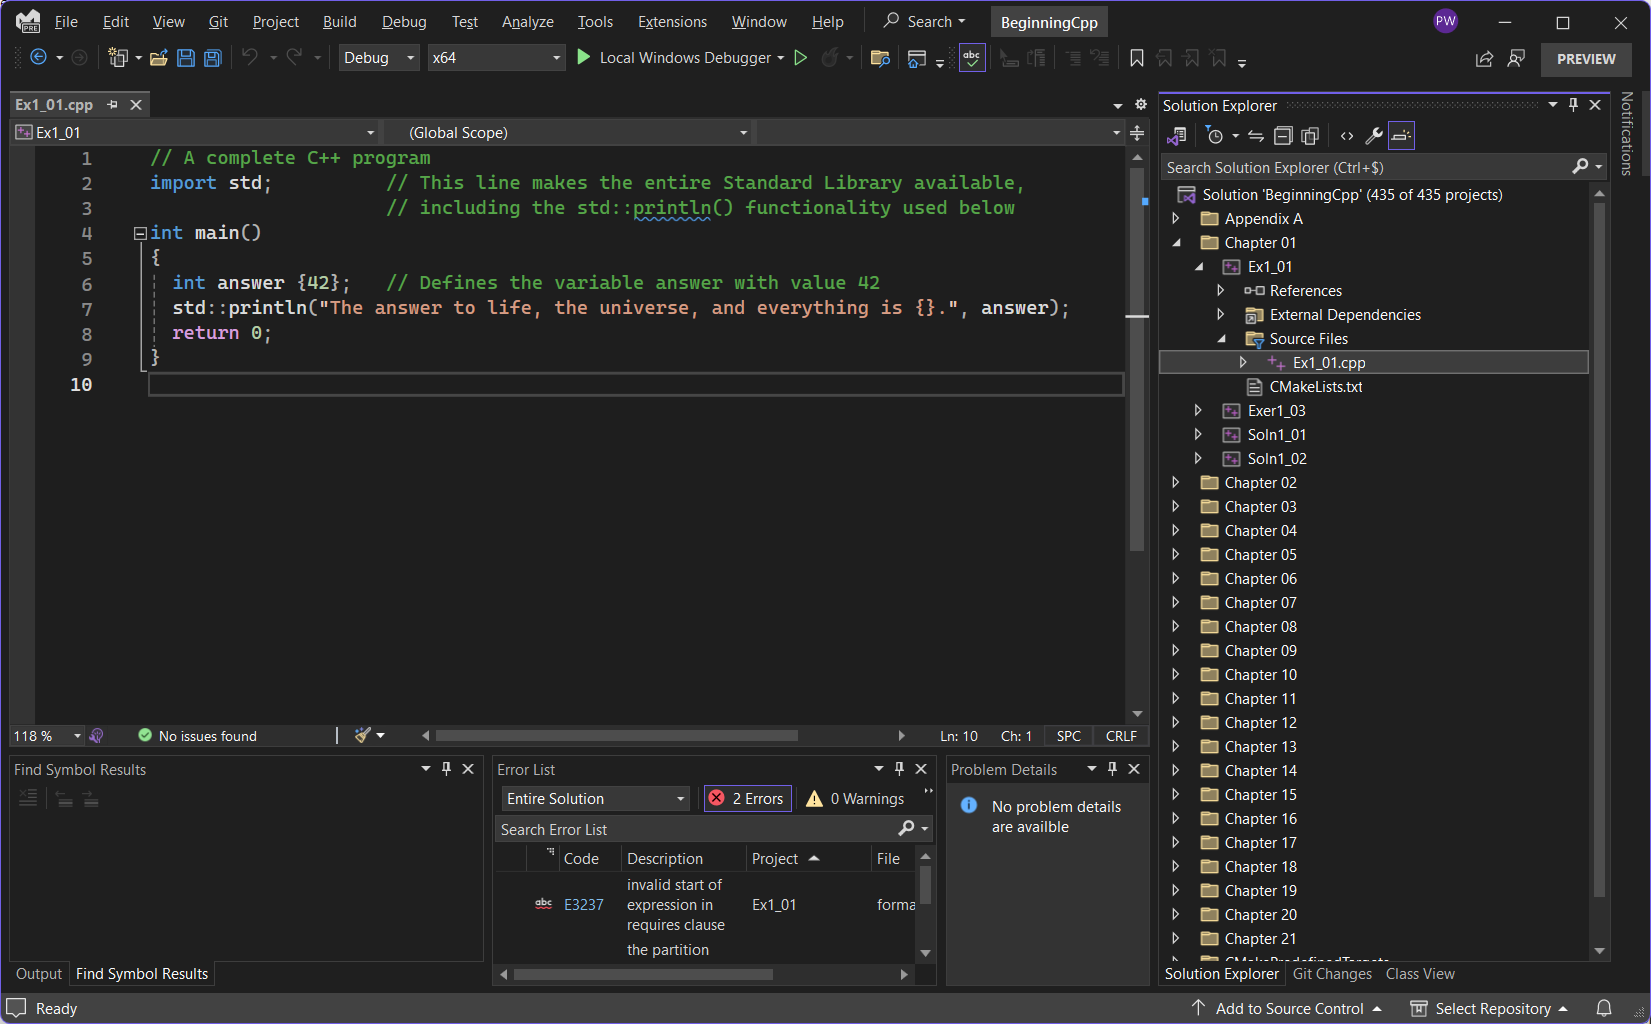
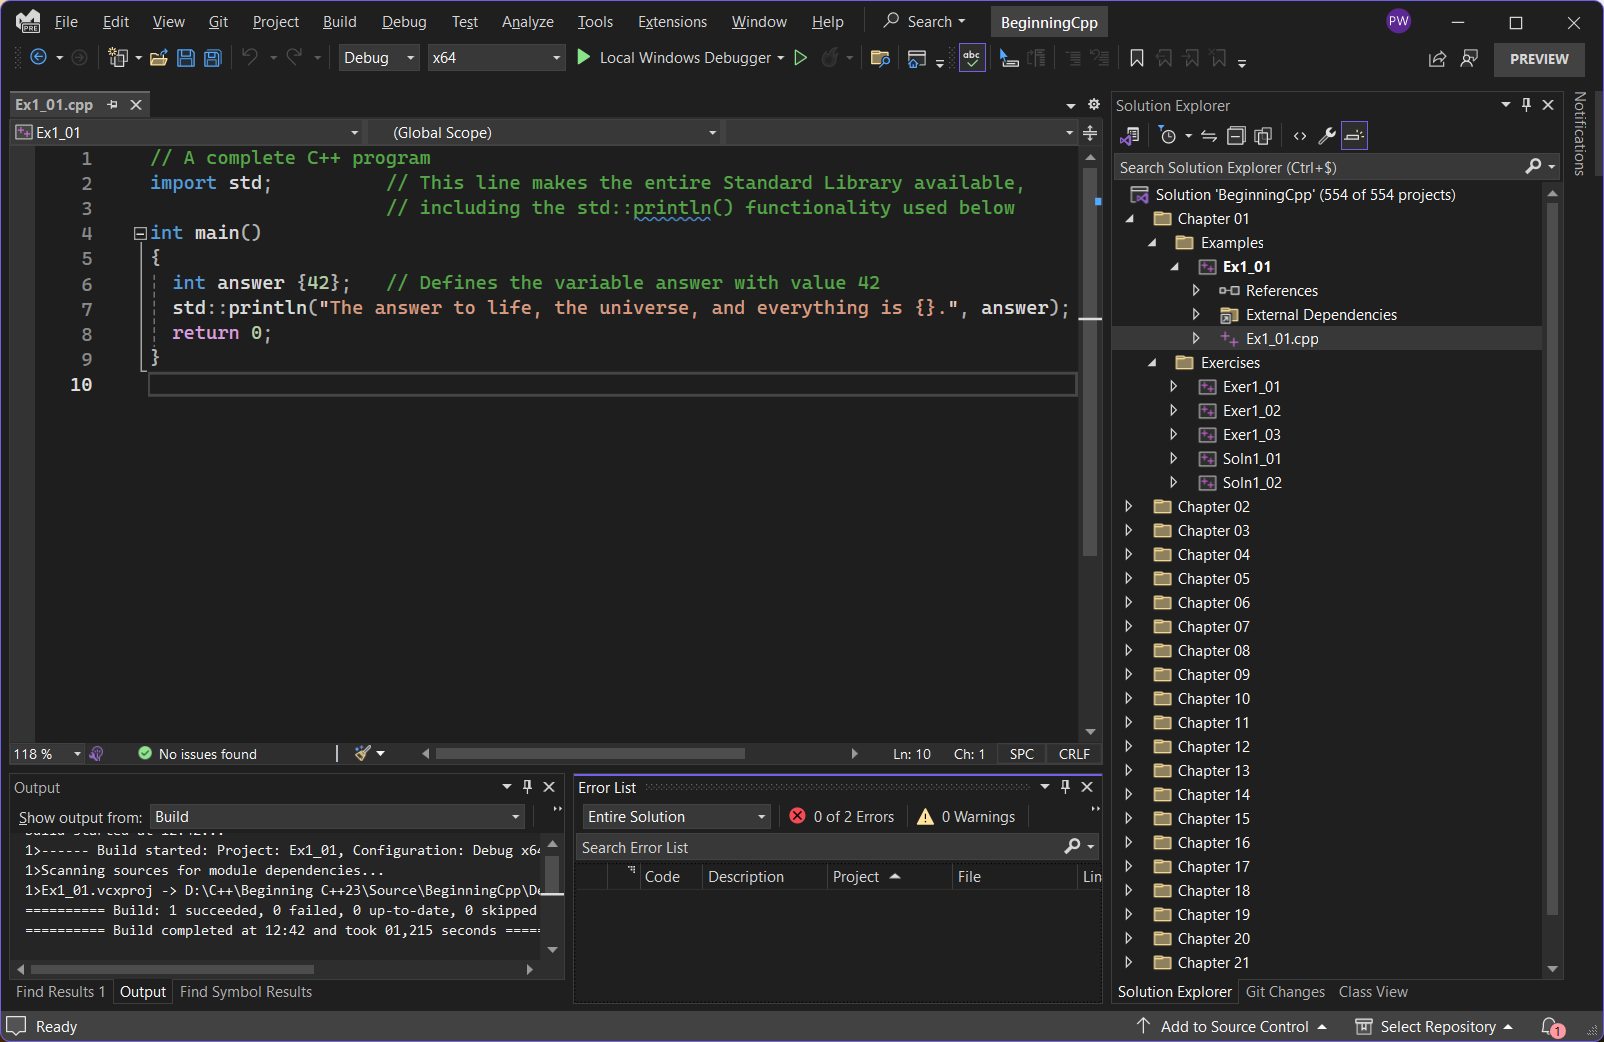
Finish compilation guide for Visual Studio

Changed region(s): [[0.0, 0.0, 1.0, 1.0], [0.0935, 0.125, 0.6234, 0.2188]]

diff --git a/Compiling.md b/Compiling.md
@@ -1,48 +1,70 @@
 # Compiling the Source Code
 
-Except where errors are made on purpose (see book), all source code is valid C++23.
-So in principle all you need is C++23 compliant compiler.
-Unfortunately, at the time of writing, not all compilers support this yet.
-See https://en.cppreference.com/w/cpp/compiler_support/23 for an overview the compiler support for C++23.
+Except where we erred on purpose (see book), all online source code is valid C++23.
+So in principle all you need is a C++23 compliant compiler.
+Unfortunately, though, at the time of writing, no compiler supports all latest features.
+See https://en.cppreference.com/w/cpp/compiler_support for an overview of C++ compiler support.
 
-At the time of writing, 
-the easiest option to get started with C++23, and modules in particular, is Visual Studio.
+Visual Studio is the only mainstream compiler to officially support modules,
+it is by far the easiest option to get started with C++23.
+It is also the compiler we used when preparing the book.
 
-## Compiling Using Visual Studio
+> [!WARNING] 
+> Compiling our source code with GCC and Clang is currently significantly harder because 
+> these compilers do not have released (strong) support for modules yet.
+> We are still looking into what is possible with GCC and Clang,
+> but for now we recommend you try to use Visual Studio instead.
+
+## Compiling with Visual Studio
 
 The Community edition of Visual Studio is free for students, open-source contributors, and individuals.
-We used the Visual Studio preview edition available from https://visualstudio.microsoft.com/downloads/
-(the officially released versions may still lack some C++23 features).
+We used the Visual Studio preview edition available from https://visualstudio.microsoft.com/downloads/.
 
-### Generating the Project Files
+### Generating the Project Files with CMake (Recommended)
 
-Once you have a sufficiently recent Visual Studio installed, 
+Once you have a sufficiently recent version of Visual Studio installed, 
 we recommend you install [CMake](https://cmake.org/download/) (version 3.28 or later).
-Through the CMake GUI you generate a set of Visual Studio project files as follows:
+Through the CMake GUI you can then generate all necessary Visual Studio project files as follows:
 
-1. Point CMake to where the source code is (the root directory of your Git working directory, where [CMakeLists.txt](./CMakeLists.txt) is located),
-   and where you want CMake to write the project files (referred to as "binaries" in the CMake GUI).
+1. Point CMake to the location of the source code 
+   (the root directory of your Git working directory,
+   where the CMake configuration file [CMakeLists.txt](./CMakeLists.txt) is located),
+   and choose where CMake should generate the project files 
+   (referred to as "binaries" in the CMake GUI).
    
    <img src="Images/CMakeGui.png" alt="CMake GUI"/>
    
 1. Press the Generate button at the bottom of the window.
    When asked to specify a generator, select "Visual Studio 17 2022".
    All other options can be left default.
+   
+> [!NOTE]
+> Our CMake script also generates stub projects for you to use when solving the books exercises
+> (one pre-configured project per exercise).
+> By default it generates these in a `MyExercises` folder 
+> next to the existing `Exercises` and `Examples` folders.
+> To override this, you alter the `MY_EXERCISES_DIR` variable in the CMake GUI 
+> (available after pressing Configure or Generate a first time).
+
+<img src="Images/MyExercises.png" alt="Configuring path to MyExercises"/>
 
 ### Compiling and Running 
 
-You start by opening the `BeginningCpp.sln` file generated by CMake in Visual Studio.
-If you then locate the Solution Explorer window, 
-you should find one project per example and exercise of the book, grouped per chapter.
+Open the `BeginningCpp.sln` solution file generated by CMake in Visual Studio,
+and locate the Solution Explorer window.
+You should find projects for all examples and exercises of the book, grouped per chapter.
 
 <img src="Images/VisualStudio.png" alt="Visual Studio solution"/>
+
+For each exercise, there is one stub project in which you can try your solution,
+and one projecting containing our reference solution.
    
-All source files are available from the "Source Files" folders under each project.
-Double clicking a source file opens it for editing.
-   
-For your convenience, we recommend you configure Visual Studio so that the so called "Startup project" tracks the currently selected project.
-That way you can easily switch between our many different projects, compile their code, and run the resulting executable.
-You can do so in the Solution Explorer by right clicking either on the solution node (labeled "Solution 'BeginningCpp' (435 of 435 projects)") and selecting Properties,
+For your convenience, 
+we highly recommend you to let Visual Studio use the currently selected project as "Startup project".
+That way you can easily switch between our many different projects, 
+and immediately compile and run the resulting executable.
+You do so in the Solution Explorer by right clicking 
+either on the solution node (labeled "Solution 'BeginningCpp' (554 of 554 projects)") and selecting Properties,
 or on any of the project nodes and selecting "Configure Startup Projects...".
    
 <img src="Images/ConfigureStartupProjects.png" alt="Select Configuring Startup Projects..."/>
@@ -53,3 +75,9 @@ Either way, under Common Properties &blacktriangleright; Startup Project, select
    
 Once that's done, you simply select any of the projects or opened files, 
 and press the green arrow in the toolbar at the top to compile and run the active project.
+
+### Creating Projects Yourself
+
+When creating your own Visual Studio project:
+- Under General &blacktriangleright; C++ Standard Language select "Preview - Features from the Latest C++ Working Draft (/std:c++latest)"
+- Easiest it to set C/C++ &blacktriangleright; General &blacktriangleright; Scan Sources for Module Dependencies to "Yes"
